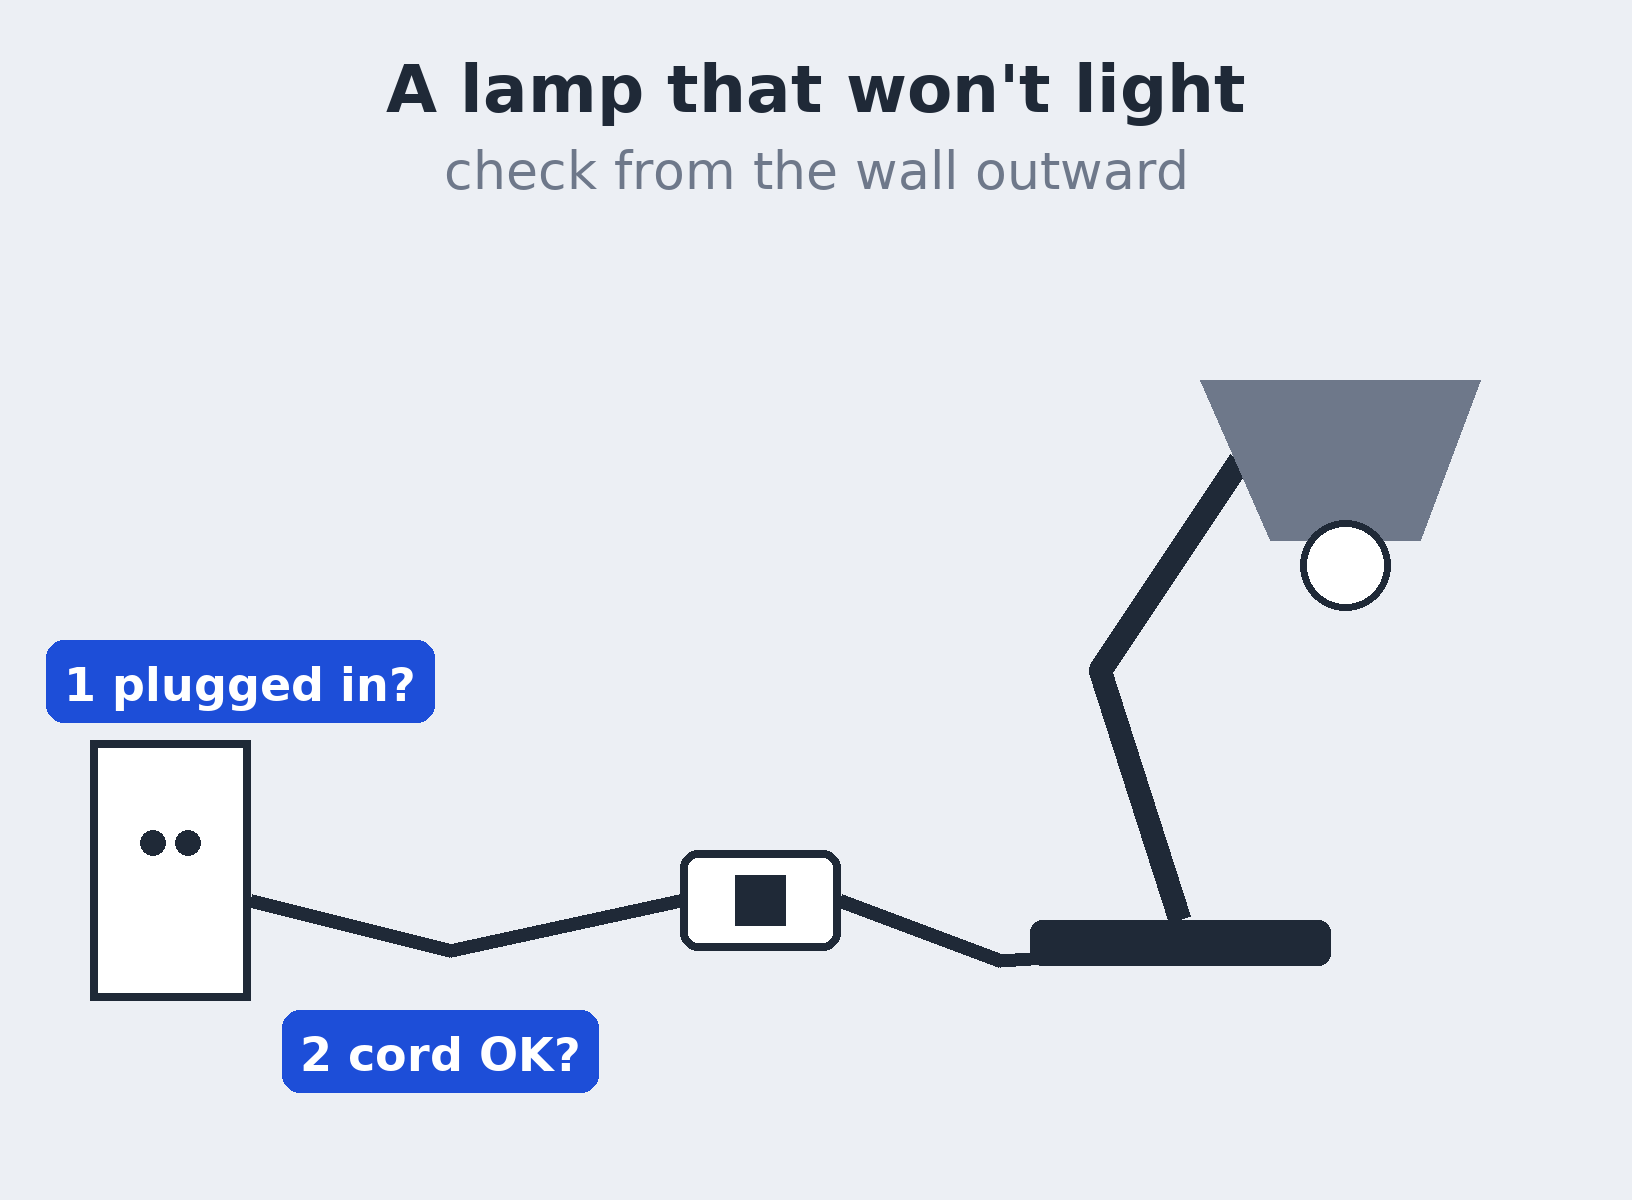
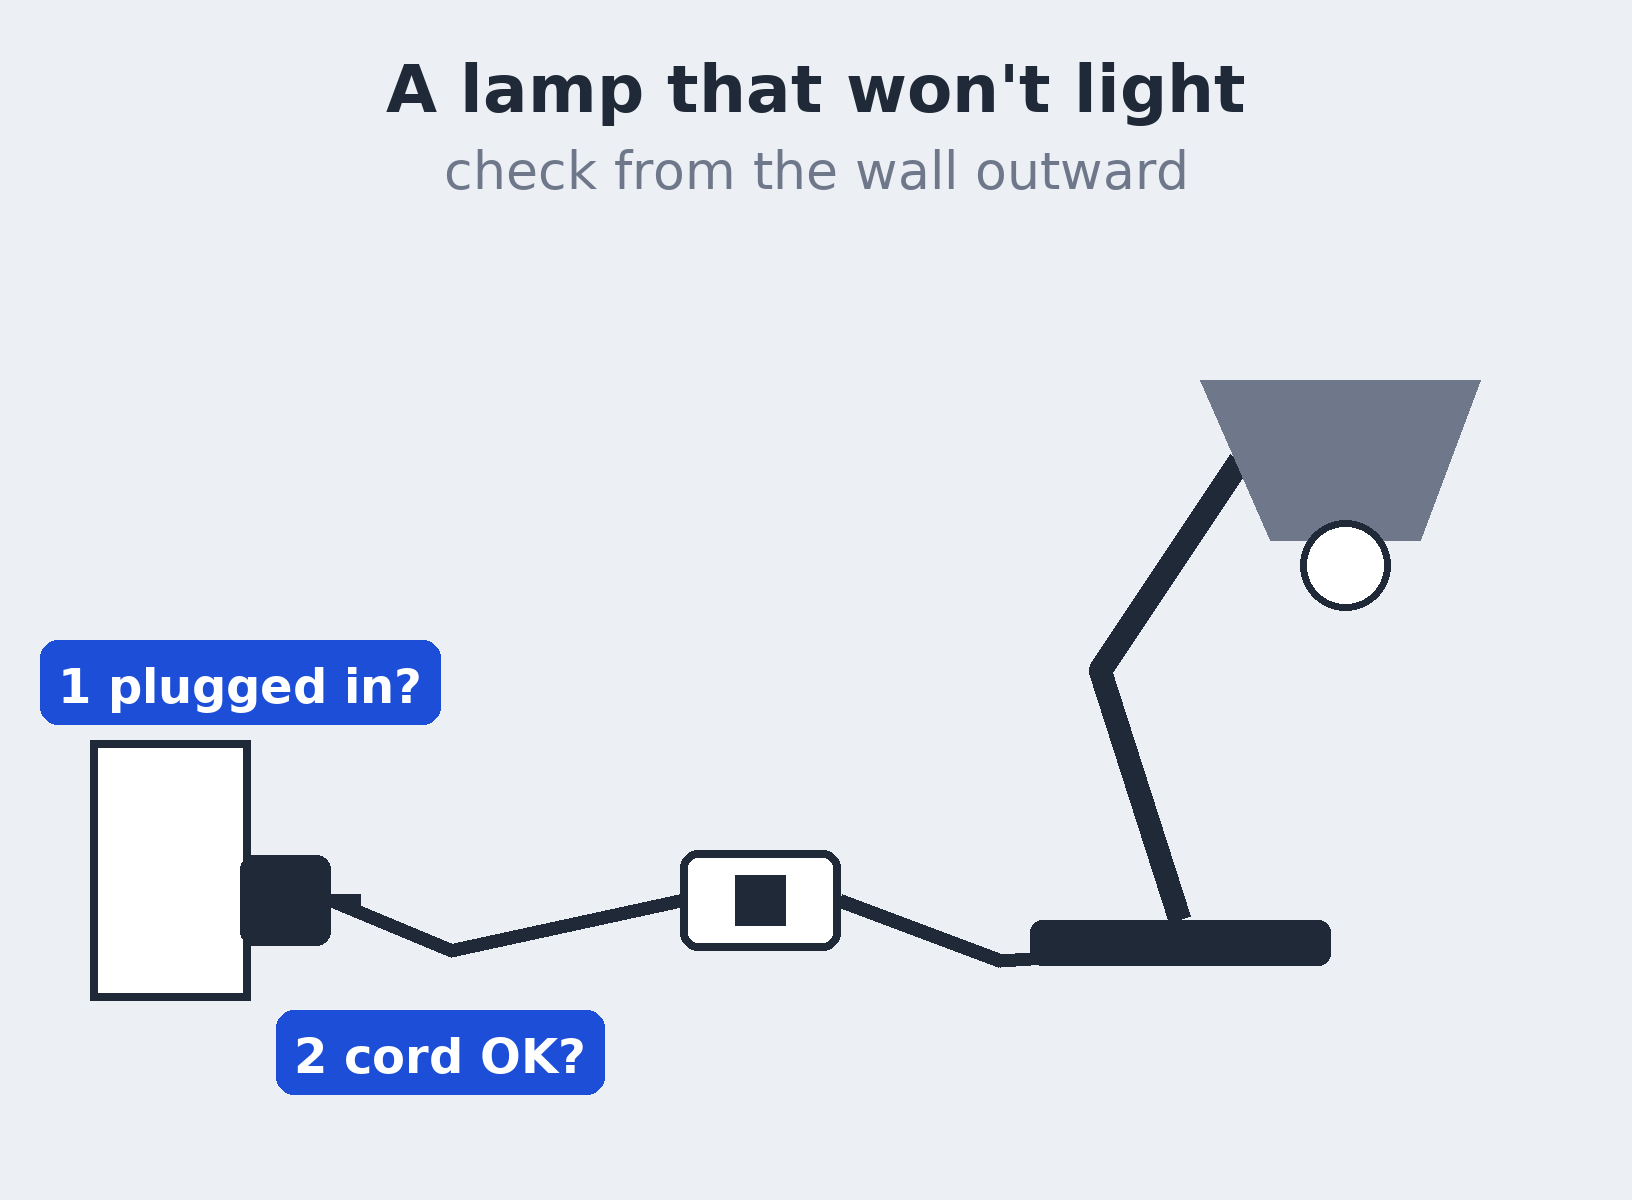
Lesson 7 cards after the script gate: the plug in the socket, a lamp picture on every row, text 48 px or more

diff --git a/video/draw7.py b/video/draw7.py
@@ -1,5 +1,5 @@
 """Lesson 7's diagram cards. Every error line on a card is copied from a lab file (out/l7/*/story.json, *-pane.txt);
-diagrams are visibly diagrams. Cards 1632 x 1200, text >= 52 px.
+diagrams are visibly diagrams. Cards 1632 x 1200, text >= 48 px.
     docker run --rm --network none -v "$PWD:/work" -w /work cadcmp-openscad:2021.01 python3 video/draw7.py
 """
 import json
@@ -38,6 +38,14 @@ def lamp(d, x, y, lit):
             d.line((x + 165 + dx * 0.6, y + 145 + dy * 0.6, x + 165 + dx * 1.2, y + 145 + dy * 1.2), fill=AMBER, width=10)
 
 
+def socket_plug(d, x, y, s=1.0, col=INK):
+    """A wall socket (x, y = top left, 160 x 260 at s=1) with the lamp's plug pushed in from the right."""
+    q = lambda a, b: (x + a * s, y + b * s)
+    d.rectangle((*q(0, 0), *q(160, 260)), fill=PAPER, outline=col, width=max(3, int(8 * s)))
+    d.rounded_rectangle((*q(150, 115), *q(240, 205)), radius=int(14 * s), fill=col)          # the plug head
+    d.line((*q(240, 160), *q(270, 160)), fill=col, width=max(3, int(14 * s)))
+
+
 def card_lamp():
     """F2: a lamp that won't light, checked from the wall outward: socket, cord, switch, bulb (4 reveal steps)."""
     stops = [('1 plugged in?', (240, 640)), ('2 cord OK?', (440, 1010)), ('3 switched on?', (760, 640)), ('4 the bulb', (1330, 290))]
@@ -45,15 +53,14 @@ def card_lamp():
         im, d = canvas()
         text(d, (W / 2, 50), "A lamp that won't light", 66, anchor='ma')
         text(d, (W / 2, 140), 'check from the wall outward', 52, GREY, path=R, anchor='ma')
-        d.rectangle((90, 740, 250, 1000), fill=PAPER, outline=INK, width=8)       # wall socket
-        d.ellipse((140, 830, 165, 855), fill=INK); d.ellipse((175, 830, 200, 855), fill=INK)
-        d.line((250, 900, 450, 950, 680, 900), fill=INK, width=14, joint='curve')  # cord
+        socket_plug(d, 90, 740)
+        d.line((330, 900, 450, 950, 680, 900), fill=INK, width=14, joint='curve')  # cord
         d.rounded_rectangle((680, 850, 840, 950), radius=18, fill=PAPER, outline=INK, width=8)  # switch
         d.rectangle((735, 875, 785, 925), fill=INK)
         d.line((840, 900, 1000, 960, 1150, 950), fill=INK, width=14, joint='curve')
         lamp(d, 1180, 420, lit=(k == 4))
         for i, (lab, (x, y)) in enumerate(stops[:k]):
-            chip(d, (x, y), lab, 46, anchor='m', bg=BLUE)
+            chip(d, (x, y), lab, 48, anchor='m', bg=BLUE)
         if k == 4:
             chip(d, (W / 2, 1090), 'one check at a time, in order', 50, anchor='m', bg=GREEN)
         save(im, f'card-lamp-{k}.png' if k < 4 else 'card-lamp.png')
@@ -126,29 +133,45 @@ def card_recap():
         save(im, f'card-recap-{k}.png' if k < 4 else 'card-recap.png')
 
 
-ROWS = [('socket + plug', 'plugged in?', 'listed in your Claude app?', 'No MCP servers configured'),
-        ('cord', 'power through?', "is the plug's program found?", 'Executable not found'),
-        ('switch', 'switched on?', "is SolidCraft's window open?", 'Note: a headless session'),
-        ('bulb', 'what you see', 'what does the reply say?', 'rolled_back: true · format 44')]
+ROWS = [('socket + plug', 'listed in your Claude app?', 'No MCP servers'),
+        ('cord', "the plug's program found?", 'Executable not found'),
+        ('switch', "SolidCraft's window open?", 'headless session'),
+        ('bulb', 'what does the reply say?', 'rolled_back · format 44')]
 
 
-def table(title, shown=4, ticks=0, lit=None, words=False, name='x'):
-    """The lamp's parts beside the course's checks, one row per check (lesson 1's map words)."""
+def icon(d, i, x, y, col):
+    """A small picture of lamp part i (0 socket + plug, 1 cord, 2 switch, 3 bulb) in a 130 x 130 box at x, y."""
+    if i == 0:
+        socket_plug(d, x + 5, y + 5, 0.45, col)
+    elif i == 1:
+        d.line((x + 5, y + 90, x + 45, y + 40, x + 85, y + 95, x + 125, y + 45), fill=col, width=12, joint='curve')
+    elif i == 2:
+        d.rounded_rectangle((x + 15, y + 35, x + 115, y + 100), radius=14, fill=PAPER, outline=col, width=7)
+        d.rectangle((x + 48, y + 50, x + 82, y + 85), fill=col)
+    else:
+        d.ellipse((x + 30, y + 10, x + 100, y + 80), fill=LIGHT if col == GREEN else PAPER, outline=col, width=7)
+        d.rectangle((x + 48, y + 80, x + 82, y + 115), fill=col)
+
+
+def table(title, shown=4, ticks=0, lit=None, words=False, name='x', sub=True):
+    """The lamp's parts (a picture each) beside the course's checks, one row per check."""
     im, d = canvas()
-    text(d, (W / 2, 45), title, 60, anchor='ma')
-    text(d, (W / 2, 128), "socket = your Claude app · the lamp's plug = our plug", 44, GREY, path=R, anchor='ma')
-    rh = 245 if words else 225
-    for i, (part, q, check, err) in enumerate(ROWS[:shown]):
-        y = 215 + i * rh
+    text(d, (W / 2, 40), title, 60, anchor='ma')
+    top = 120
+    if sub:
+        text(d, (W / 2, 120), "socket = your Claude app · the lamp's plug = our plug", 48, INK, path=R, anchor='ma')
+        top = 200
+    rh = (H - top - 30) // 4
+    for i, (part, check, err) in enumerate(ROWS[:shown]):
+        y = top + i * rh
         ok, on = i < ticks, (lit == i)
         col = GREEN if ok else (BLUE if on or lit is None else GREY)
-        d.rounded_rectangle((60, y, 1572, y + rh - 30), radius=22, fill=PAPER, outline=col, width=8 if (ok or on) else 4)
-        text(d, (100, y + 28), f'{i + 1}', 76, col)
-        text(d, (190, y + 30), part, 50, INK)
-        text(d, (190, y + 95), q, 42, GREY, path=R)
-        text(d, (640, y + 30), ('✓ ' if ok else '') + check, 46, col)
+        d.rounded_rectangle((40, y, 1592, y + rh - 22), radius=22, fill=PAPER, outline=col, width=8 if (ok or on) else 4)
+        icon(d, i, 70, y + (rh - 22 - 130) // 2, col)
+        text(d, (230, y + 22), f'{i + 1}  {part}', 50, INK)
+        text(d, (230, y + 88), ('✓ ' if ok else '') + check, 52, col)
         if words:
-            text(d, (640, y + 110), err, 40, RED, path=M)
+            text(d, (230, y + 158), err, 48, RED, path=M)
     save(im, name)
 
 
@@ -156,8 +179,8 @@ if __name__ == '__main__':
     card_lamp()
     for k in range(1, 5):
         table("Our lamp is lesson 1's picture", shown=k, name=f'card-mapped-{k}.png' if k < 4 else 'card-mapped.png')
-    table('So far: two checks passed', ticks=2, lit=2, name='card-sofar-2.png')
-    table('So far: three checks passed', ticks=3, lit=3, name='card-sofar-3.png')
+    table('So far: two checks passed', ticks=2, lit=2, name='card-sofar-2.png', sub=False)
+    table('So far: three checks passed', ticks=3, lit=3, name='card-sofar-3.png', sub=False)
     card_path()
     for k in range(1, 5):
-        table('Remember the lamp: from the wall outward', shown=k, words=True, name=f'card-recap-{k}.png' if k < 4 else 'card-recap.png')
+        table('Remember the lamp: from the wall outward', shown=k, words=True, sub=False, name=f'card-recap-{k}.png' if k < 4 else 'card-recap.png')
